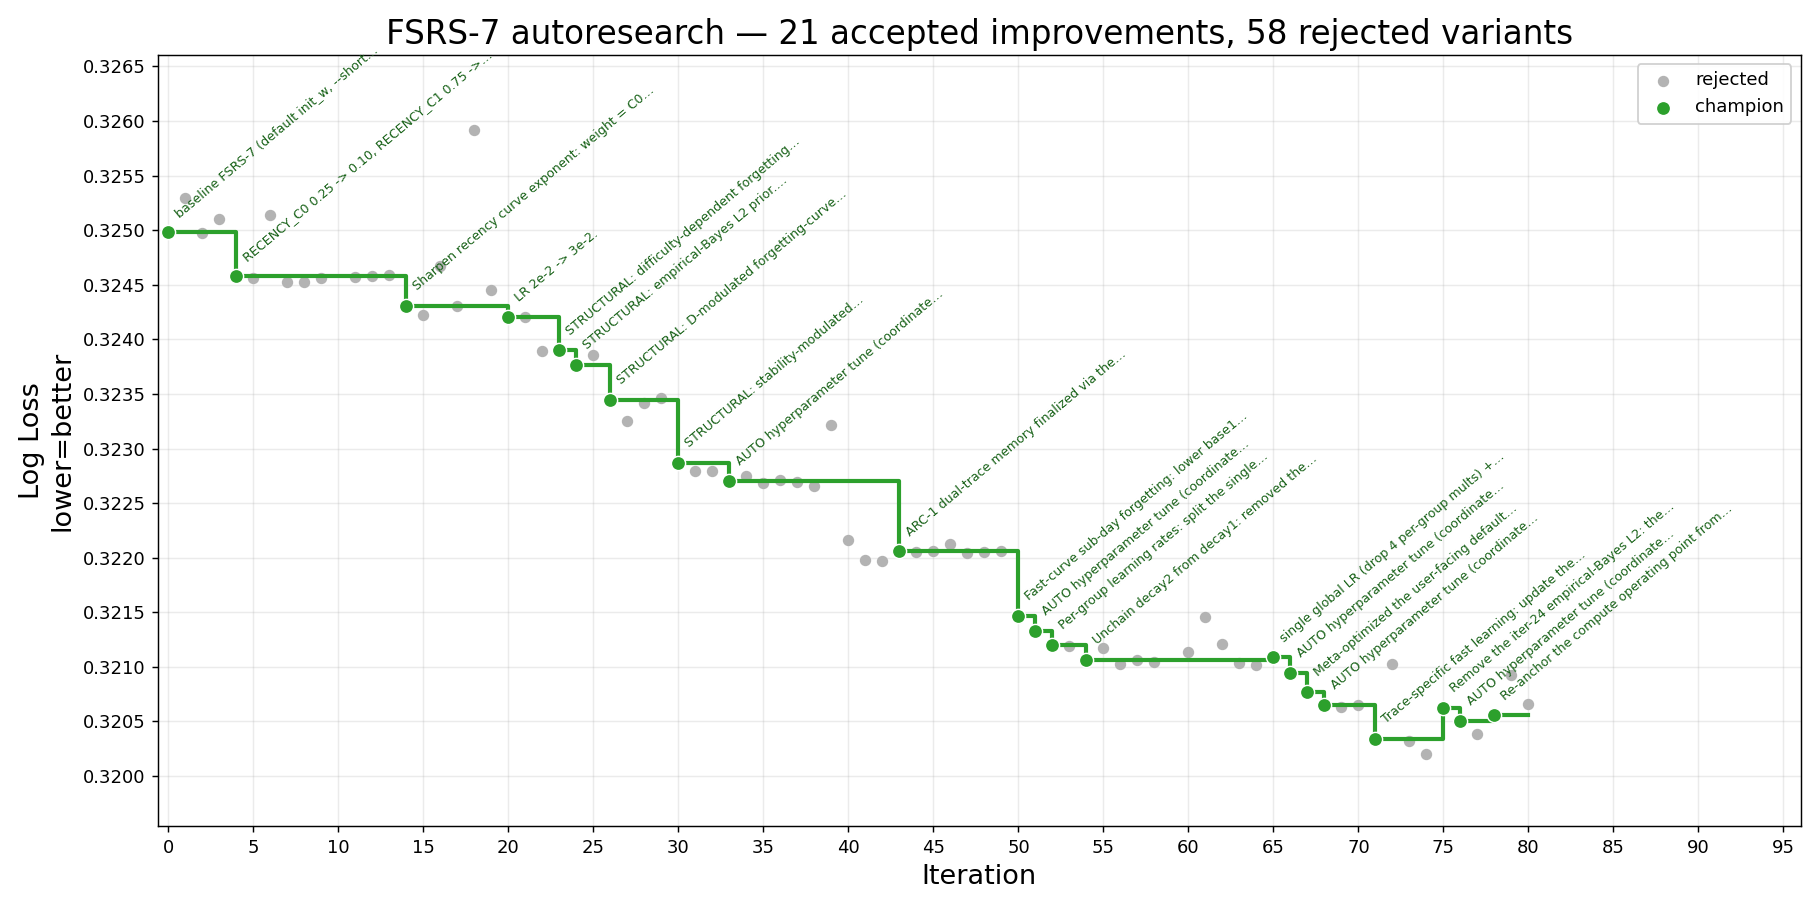
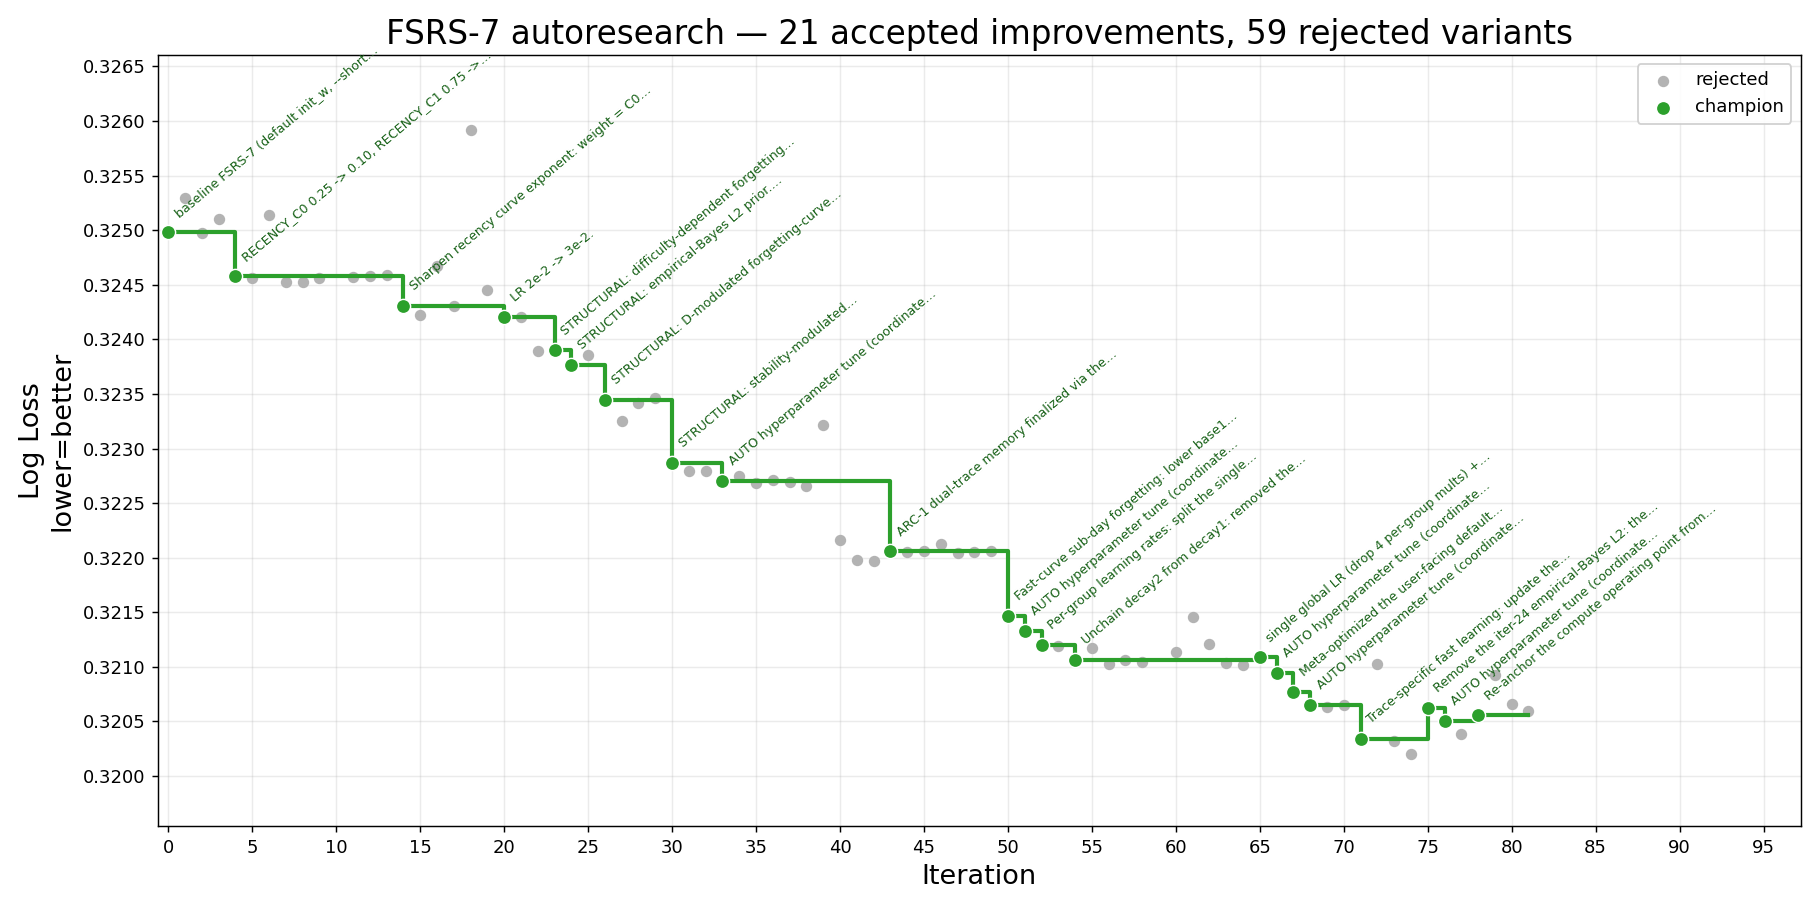
iter 81 (rejected): linear fail-path surprise -- near-tie, convex marginally better (+4e-5 worse)

diff --git a/result/history.md b/result/history.md
@@ -1,6 +1,6 @@
 # FSRS-7 autoresearch — iteration history
 
-_80 record(s). Generated from `history.jsonl` — do not edit by hand._
+_81 record(s). Generated from `history.jsonl` — do not edit by hand._
 
 | # | Time (UTC) | Thresh. | LL before | LL after | Δ LL | Cx before | Cx after | Δ Cx % | Status | Summary |
 |--:|---|---:|---:|---:|---:|---:|---:|---:|---|---|
@@ -84,3 +84,4 @@ _80 record(s). Generated from `history.jsonl` — do not edit by hand._
 | 78 | 2026-06-03T21:09:31 | — | 0.32051 | 0.32056 | -0.00005 | 16,827 | 16,827 | +0.00% | accepted | Re-anchor the compute operating point from (n_epoch=8, batch_size=128) to (8, 256) via the epoch x batch Pareto grid, and fine-tune LR/betas/L2/recency at the new operating point. |
 | 79 | 2026-06-03T21:27:49 | 0.0001 | 0.32056 | 0.32093 | -0.00037 | 16,827 | 16,828 | +0.01% | rejected | Changed the success-path stability-increase surprise response from convex (exp(c*(1-R))-1) to concave-saturating (1-exp(-c*(1-R))) in fsrs7_stability_after_review_one_term (applies to both traces; 0 new params). |
 | 80 | 2026-06-03T21:37:27 | 0.0001 | 0.32056 | 0.32066 | -0.00010 | 16,827 | 16,829 | +0.01% | rejected | Lowered w[8] (long sinc_s_exp) clamp lower bound 0.0 to -0.3, allowing s_inc to accelerate with stability. |
+| 81 | 2026-06-03T21:48:18 | 0.0001 | 0.32056 | 0.32060 | -0.00004 | 16,827 | 16,828 | +0.01% | rejected | Replaced fail-path surprise amplification exp((1-R)*fail_r_mult) with linear 1+(1-R)*fail_r_mult in new_s_fail (both traces); 0 params. |
